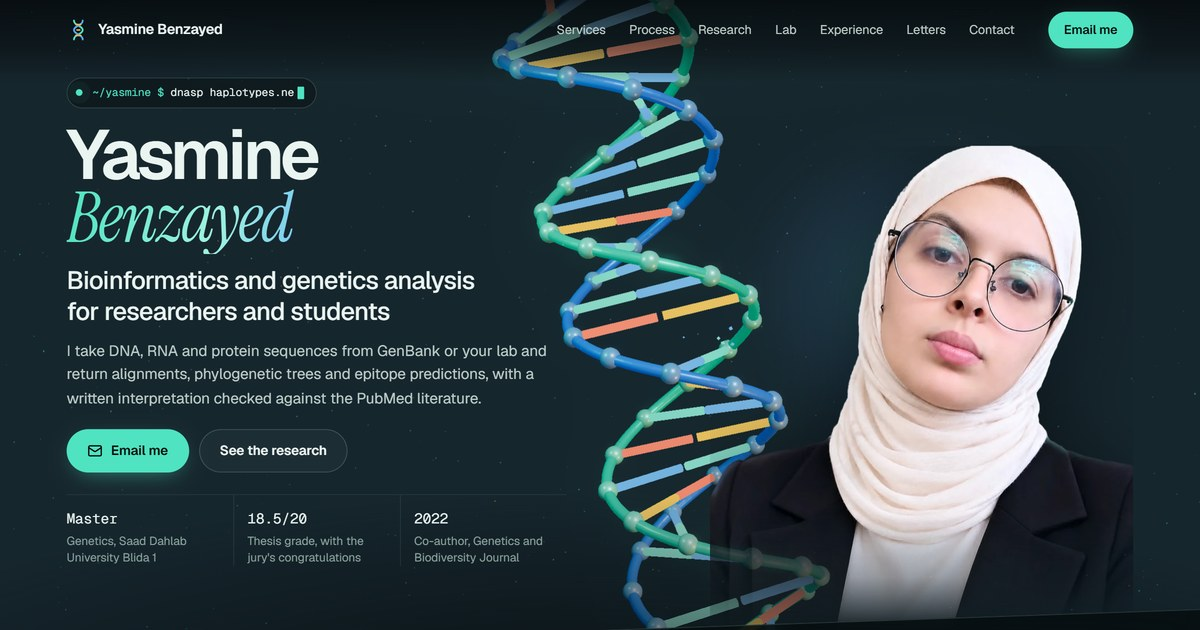
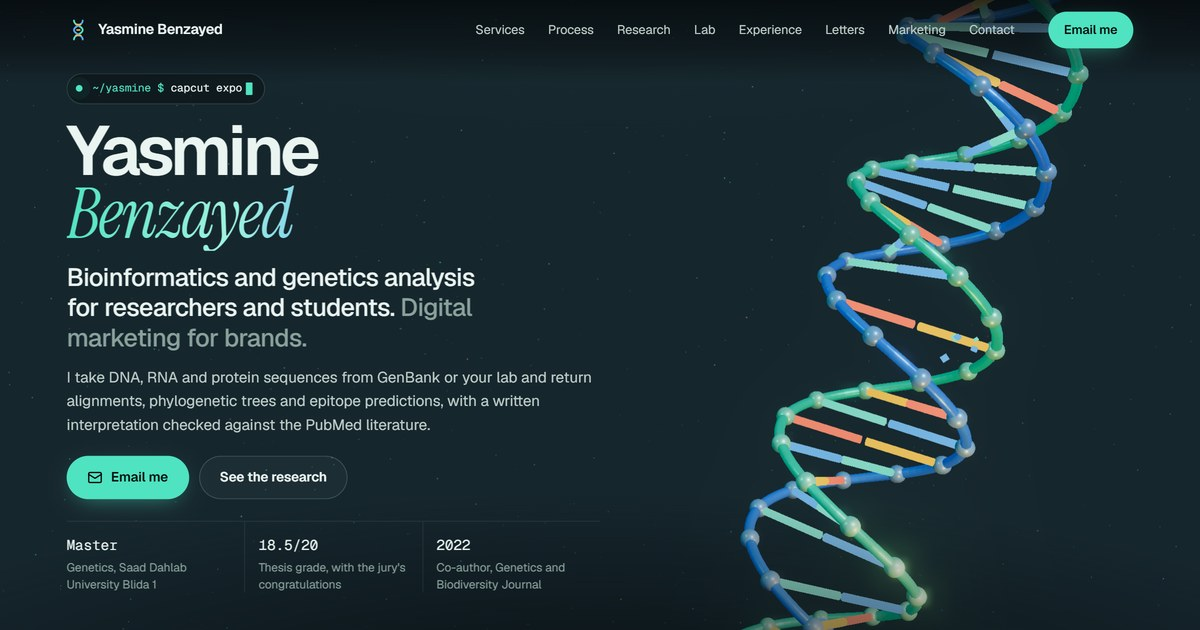
Remove the portrait at the client's request
Hero photo, contact profile card and image files removed; helix back to its
original hero placement; link preview regenerated without the photo.

diff --git a/assets/css/style.css b/assets/css/style.css
@@ -302,29 +302,8 @@ h3 { font-size: 19px; line-height: 1.3; letter-spacing: -0.015em; font-weight: 6
   padding-block: calc(var(--nav-h) + 40px) 120px;
 }
 .hero__grid { width: 100%; position: relative; z-index: 2; }
-.hero__copy { max-width: 600px; }
+.hero__copy { max-width: 660px; }
 
-/* the portrait: a cut-out standing in front of the helix, its lower edge melting into the page */
-.hero__portrait {
-  /* leaves a lane between the text and the portrait for the 3D helix */
-  --pw: clamp(300px, calc(100vw - 600px - 2 * var(--gutter) - 220px), 540px);
-  position: absolute; z-index: 1; bottom: 0; margin: 0;
-  right: calc(max(0px, (100vw - var(--wrap) - 2 * var(--gutter)) / 2) + var(--gutter));
-  width: min(var(--pw), calc((100vh - var(--nav-h) - 12px) * 900 / 1029));
-  pointer-events: none;
-}
-.hero__portrait::before {
-  content: ""; position: absolute; z-index: -1; left: 6%; right: 6%; top: -2%; height: 64%; border-radius: 50%;
-  background: radial-gradient(closest-side, rgba(79, 227, 193, 0.26), rgba(90, 169, 255, 0.12) 55%, transparent 100%);
-  filter: blur(28px);
-}
-.hero__portrait img {
-  display: block; width: 100%; height: auto;
-  -webkit-mask-image: linear-gradient(to bottom, #000 76%, rgba(0, 0, 0, 0.6) 89%, transparent 100%);
-  mask-image: linear-gradient(to bottom, #000 76%, rgba(0, 0, 0, 0.6) 89%, transparent 100%);
-  filter: drop-shadow(0 24px 48px rgba(0, 0, 0, 0.55));
-}
-.js .hero__portrait.m-enter { transform: translateY(40px); filter: blur(10px); }
 .kicker {
   display: inline-flex; align-items: center; gap: 12px;
   padding: 7px 14px 7px 10px; border-radius: 999px;
@@ -577,14 +556,9 @@ h1 { margin-top: 28px; }
 .contact__side { grid-column: 8 / span 5; }
 .panel { border-radius: var(--r-lg); padding: clamp(24px, 3vw, 40px); }
 .contact__main .section__lead { margin-bottom: 30px; }
-.profile { display: flex; align-items: center; gap: 18px; margin: 4px 0 26px; padding-bottom: 22px; border-bottom: 1px solid var(--line); }
-.profile__img {
   flex: none; width: 76px; height: 76px; border-radius: 50%; object-fit: cover;
   box-shadow: 0 0 0 3px var(--bg), 0 0 0 5px var(--a), 0 10px 30px -8px rgba(79, 227, 193, 0.6);
 }
-.profile__name { font-size: 19px; font-weight: 600; letter-spacing: -0.015em; }
-.profile__role { font-size: 14.5px; color: var(--ink-2); }
-.profile__meta { margin-top: 2px; font-size: 13px; color: var(--muted); }
 .email { display: flex; flex-wrap: wrap; align-items: center; gap: 12px 16px; margin-bottom: 26px; }
 .email__addr {
   font-family: var(--mono); font-size: clamp(19px, 2vw, 26px); letter-spacing: -0.02em; text-decoration: none;
@@ -642,9 +616,8 @@ h1 { margin-top: 28px; }
 @media (max-width: 1180px) {
   .nav__links a { padding: 10px 7px; font-size: 14px; min-width: 0; }
   .nav__row { gap: 18px; }
-  .hero__copy { max-width: 520px; }
+  .hero__copy { max-width: 580px; }
   .h1__name { font-size: clamp(56px, 7.4vw, 96px); }
-  .hero__portrait { --pw: clamp(280px, calc(100vw - 520px - 2 * var(--gutter) - 150px), 460px); }
   .project { gap: 20px; padding: 22px; }
   .toolkit { grid-template-columns: repeat(2, minmax(0, 1fr)); }
   .contact__main { grid-column: 1 / span 7; }
@@ -672,9 +645,6 @@ h1 { margin-top: 28px; }
 
 @media (max-width: 899px) {
   body { font-size: 16px; }
-  .hero { padding-top: calc(var(--nav-h) + 12px); }
-  .hero__portrait { position: relative; right: auto; bottom: auto; width: min(76vw, 380px); margin: 0 auto -36px; }
-  .hero__portrait img { -webkit-mask-image: linear-gradient(to bottom, #000 70%, transparent 98%); mask-image: linear-gradient(to bottom, #000 70%, transparent 98%); }
   .project { grid-template-columns: 1fr; }
   .stage-shade {
     background:

diff --git a/index.html b/index.html
@@ -57,7 +57,6 @@
     "@type": "Person",
     "name": "Yasmine Benzayed",
     "jobTitle": "Bioinformatician, geneticist and digital marketing specialist",
-    "image": "assets/img/avatar.webp",
     "email": "mailto:bzdyasmine97@gmail.com",
     "knowsLanguage": ["en", "fr", "ar"],
     "knowsAbout": ["Bioinformatics", "Genetics", "Phylogenetics", "Immunoinformatics", "Scientific writing", "Digital marketing", "Social media management", "Video editing"],
@@ -133,10 +132,6 @@
   <main id="main">
     <!-- ============ HERO ============ -->
     <section class="hero" id="top" data-helix="hero" data-enter>
-      <!-- the portrait stands in front of the helix; its lower edge melts into the page -->
-      <figure class="hero__portrait m-enter" style="--i:2">
-        <img src="assets/img/portrait.webp" srcset="assets/img/portrait-560.webp 560w, assets/img/portrait.webp 900w" sizes="(max-width: 899px) 78vw, 640px" width="900" height="1029" alt="Yasmine Benzayed" fetchpriority="high">
-      </figure>
       <div class="wrap hero__grid">
         <div class="hero__copy">
           <p class="kicker m-enter" style="--i:0"><span class="kicker__pulse"></span><span class="sr-only">Bioinformatics, genetics, research writing and digital marketing</span><span class="kicker__prompt" aria-hidden="true">~/yasmine $</span><span class="typer" id="typer" aria-hidden="true" data-words='["mega align spike.fasta","capcut export reel_v3.mp4","dnasp haplotypes.nex","meta-ads launch --audience algiers","netMHCpan -a HLA-A02:01 E6.fsa","canva render story.png","blastp -query E6.fasta","format thesis.docx --style apa"]'>mega align spike.fasta</span><span class="caret" aria-hidden="true"></span></p>
@@ -703,14 +698,6 @@
       <div class="wrap contact__grid">
         <div class="contact__main panel">
           <p class="label"><span class="label__n">10</span>contact</p>
-          <div class="profile">
-            <img class="profile__img" src="assets/img/avatar.webp" width="400" height="400" alt="Yasmine Benzayed" loading="lazy">
-            <div>
-              <p class="profile__name">Yasmine Benzayed</p>
-              <p class="profile__role">Bioinformatician, geneticist and digital marketer · Master in Genetics</p>
-              <p class="profile__meta">Algeria · remote projects through Upwork and email</p>
-            </div>
-          </div>
           <h2 data-decode>Contact for analysis, writing and marketing projects.</h2>
           <p class="section__lead">For research: the organism, the gene or region, how many sequences you have and your deadline. For a brand: your product, your pages and what you want to happen. I reply in English, French or Arabic.</p>
           <div class="email">

diff --git a/assets/js/helix.js b/assets/js/helix.js
@@ -340,20 +340,8 @@ function init() {
 
   /* the hero helix stands in the space right of the hero copy, never under it */
   const heroCopy = document.querySelector('.hero__copy');
-  const heroPortrait = document.querySelector('.hero__portrait');
   function fitHero() {
     if (!heroCopy || W < 900) return;
-    if (heroPortrait && heroPortrait.offsetWidth) {
-      const p = heroPortrait.getBoundingClientRect();
-      // the helix stands in the lane between the text and the portrait, its right side passing behind her
-      const c = heroCopy.getBoundingClientRect();
-      const pxu = H / visH; // pixels per world unit at the helix plane
-      const gap = Math.max(0, p.left - c.right);
-      MODES.hero.x = Math.max((c.right + p.left) / 2, p.left - 60) / W;
-      MODES.hero.s = Math.max(0.72, Math.min(1.05, (gap + 140) / (2.7 * pxu)));
-      MODES.hero.tilt = 0.24; // leans so its lower end passes behind her, away from the text
-      return;
-    }
     const right = heroCopy.getBoundingClientRect().right;
     const pxu = H / visH;
     const full = 3.1 * pxu;

diff --git a/README.md b/README.md
@@ -17,9 +17,8 @@ assets/js/workflow.js the "process" section: sticky window with FASTA, alignment
 assets/js/lab.js      the sequence lab: GC, composition, molecular weight, reverse complement,
                       mRNA, translation, longest ORF, and the same steps written in Biopython
 assets/vendor/        three.js r170 (MIT) and its bloom post-processing files
-assets/img/           the portrait (cut-out, two sizes) and the round avatar
 assets/icons/         brand and interface icons (CC0 / ISC, see icons-credits.json)
-assets/share.jpg      1200x630 link preview image (the hero with her portrait)
+assets/share.jpg      1200x630 link preview image
 ```
 
 ## Preview locally
